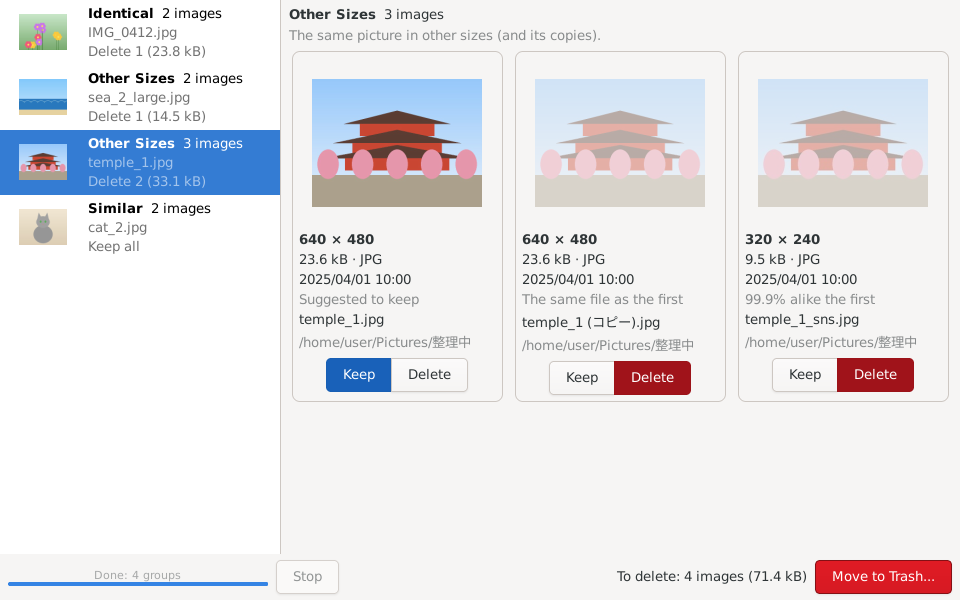
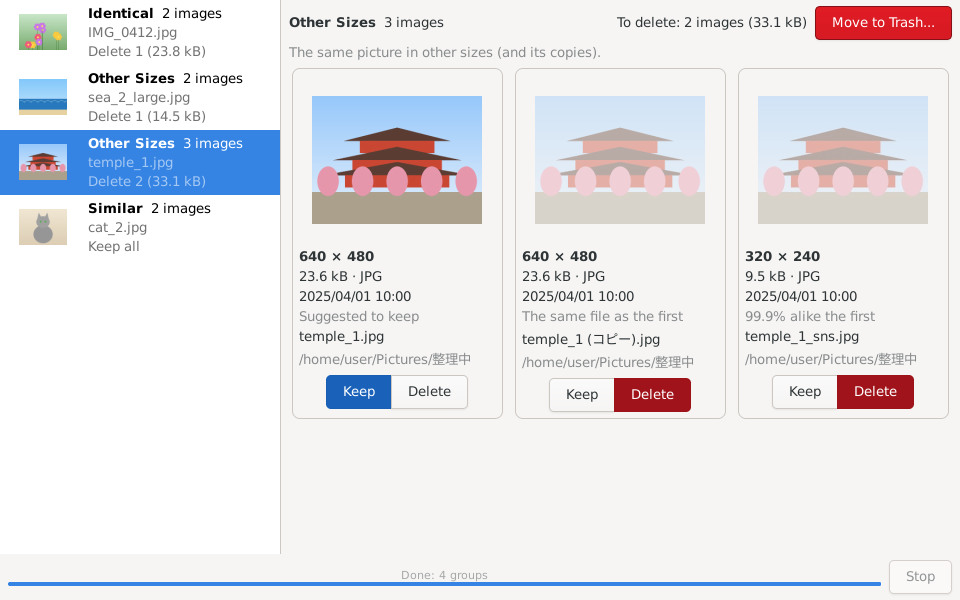
Find Duplicates: move to the trash a group at a time
All the groups to the trash at once is too bold for deleting.  The
"Move to Trash..." button and what is to delete are now at the top of
the group shown, and it moves only the images of that group marked
Delete.  The question names the files (ten, and how many more) and,
when all of the group are to delete, says so with "Cancel" the default.
After the move the next group is shown; the group's row marks a group
all to delete.

diff --git a/doc/en/03.html b/doc/en/03.html
@@ -555,7 +555,7 @@ Looks for the duplicate images among all the images of the active tab (the selec
 On the left are the groups: the kind, the number of images, and how many are to delete (and their size).  The images of the group selected are side by side on the right to compare: the size, the file size, the format, the date taken, how alike the first, the folder, and whether it has a comment.  A click on a picture shows it in the thumbnail window (what it does is set in [Preferences | Search]).
 </p>
 <p class="para">
-Each image is marked "Keep" or "Delete".  In the Identical and Other Sizes groups the one with the most pixels (then the largest file, the oldest) is kept and the others are to delete; in the Similar groups all are kept.  "Move to Trash..." moves the images to delete to the trash after asking (they can be put back from the trash); it says so when all of a group are to delete or some have comments.  The comment files stay.
+Each image is marked "Keep" or "Delete".  In the Identical and Other Sizes groups the one with the most pixels (then the largest file, the oldest) is kept and the others are to delete; in the Similar groups all are kept.  "Move to Trash..." at the top right moves the images to delete of the group shown, and only those, to the trash after asking (they can be put back from the trash): a group at a time, to be careful.  The question names the files and says so when all of the group are to delete (then "Cancel" is the default) or some have comments.  Then the next group is shown.  The comment files stay.
 </p>
 <p class="para">
 The window reads the pictures itself: the images the thumbnail view has not loaded are shown too.  It can be used while it searches: the Identical groups come first, all of them at the end.  The images in archives are not compared.

diff --git a/doc/ja/gimv_history.html b/doc/ja/gimv_history.html
@@ -66,8 +66,8 @@
     o 「EXIFデータを検索」を「EXIFデータを表示」に
     o [ツール | 重複画像を探す] を作り直し: 1 回で「完全に同じ」「大きさ違い」
       「似ている」に分けて探す．左にグループ，右にその画像を並べて比べ，
-      それぞれ「残す」「削除」(同じ・大きさ違いはおすすめ付き)，「ゴミ箱へ
-      移動...」．探すのは別スレッドで，画像も自分で読み込む
+      それぞれ「残す」「削除」(同じ・大きさ違いはおすすめ付き)，表示中の
+      グループだけを「ゴミ箱へ移動...」(1 グループずつ)．探すのは別スレッドで，画像も自分で読み込む
     o データタブに「項目を削除」．下の「削除」は「コメントを削除...」にして
       確認を出し，タグは残す．コメントの保存・削除をすぐ索引に反映
     o スライドショーで 2 枚目以降の画像が描かれなかったのを修正

diff --git a/doc/en/gimv_history.html b/doc/en/gimv_history.html
@@ -67,7 +67,7 @@
       Identical, Other Sizes and Similar; the groups on the left, their
       images side by side on the right to compare, each to keep or to
       delete (suggested for the identical and resized), and "Move to
-      Trash...".  It searches in a thread and reads the pictures itself.
+      Trash..." for the group shown (a group at a time).  It searches in a thread and reads the pictures itself.
     o Data tab: "Remove Item" for the item selected; "Delete Comment..."
       asks first and keeps the tags.  The index follows a comment saved
       or deleted at once.

diff --git a/src/gimv_dupl_win.c b/src/gimv_dupl_win.c
@@ -104,8 +104,9 @@ struct GimvDuplWinPriv_Tag
    GtkWidget     *more_label;  /* the members not shown */
    GtkWidget     *progress;
    GtkWidget     *stop_button;
-   GtkWidget     *summary_label;
-   GtkWidget     *trash_button;
+   GtkWidget     *summary_label;  /* of the group shown */
+   GtkWidget     *trash_button;   /* ... its images to delete */
+   gboolean       trashing;
 
    gint           current;     /* the group shown, -1 */
 };
@@ -413,32 +414,31 @@ static void
 update_summary (GimvDuplWin *sw)
 {
    GimvDuplWinPriv *priv = sw->priv;
-   guint i, n = 0;
+   guint n = 0, n_keep = 0;
    goffset bytes = 0;
    gchar *size, *text;
+   gboolean shown = priv->groups && priv->current >= 0
+                    && priv->current < (gint) priv->groups->len;
 
-   if (priv->groups) {
-      /* a path in two groups (the first groups and all) is counted once */
-      GHashTable *seen = g_hash_table_new (g_str_hash, g_str_equal);
-      for (i = 0; i < priv->groups->len; i++) {
-         GimvDuplGroup *group = g_ptr_array_index (priv->groups, i);
-         guint k;
-         if (n_left (sw, group) < 2) continue;
-         for (k = 0; k < group->members->len; k++) {
-            GimvDuplItem *item = g_ptr_array_index (group->members, k);
-            if (is_removed (sw, item) || !marked_delete (sw, group, k)) continue;
-            if (!g_hash_table_add (seen, item->path)) continue;
-            n++;
-            bytes += item->size;
-         }
-      }
-      g_hash_table_destroy (seen);
-   }
+   /* the group shown only: it is moved to the trash a group at a time */
+   if (shown)
+      group_counts (sw, g_ptr_array_index (priv->groups, priv->current),
+                    &n, &bytes, &n_keep);
 
    size = g_format_size (bytes);
    text = g_strdup_printf (_("To delete: %u images (%s)"), n, size);
    gtk_label_set_text (GTK_LABEL (priv->summary_label), text);
-   gtk_widget_set_sensitive (priv->trash_button, n > 0 && !priv->running);
+   gtk_widget_set_visible (priv->summary_label, shown);
+   gtk_widget_set_visible (priv->trash_button, shown);
+   gtk_widget_set_sensitive (priv->trash_button, n > 0 && !priv->trashing);
+   if (n > 0 && n_keep == 0) {
+      gtk_widget_add_css_class (priv->summary_label, "error");
+      gtk_widget_set_tooltip_text (priv->summary_label,
+                                   _("Every image of this group is marked to delete."));
+   } else {
+      gtk_widget_remove_css_class (priv->summary_label, "error");
+      gtk_widget_set_tooltip_text (priv->summary_label, NULL);
+   }
    g_free (text);
    g_free (size);
 }
@@ -823,6 +823,7 @@ show_group (GimvDuplWin *sw, gint index)
    if (!priv->groups || index < 0 || index >= (gint) priv->groups->len) {
       gtk_label_set_text (GTK_LABEL (priv->head_label), "");
       gtk_label_set_text (GTK_LABEL (priv->kind_label), "");
+      update_summary (sw);
       return;
    }
 
@@ -854,6 +855,7 @@ show_group (GimvDuplWin *sw, gint index)
       }
       gtk_widget_set_visible (priv->more_label, left > shown);
    }
+   update_summary (sw);
 }
 
 
@@ -1115,6 +1117,7 @@ typedef struct {
    GPtrArray *paths;      /* gchar * */
    GPtrArray *done;       /* the paths moved */
    GString   *errors;
+   guint      position;   /* of the group in the list */
 } TrashJob;
 
 
@@ -1164,6 +1167,7 @@ trash_done (GObject *source, GAsyncResult *res, gpointer data)
    guint i;
 
    if (!sw) return;
+   sw->priv->trashing = FALSE;
    for (i = 0; i < job->done->len; i++)
       g_hash_table_add (sw->priv->removed, g_strdup (g_ptr_array_index (job->done, i)));
 
@@ -1174,6 +1178,19 @@ trash_done (GObject *source, GAsyncResult *res, gpointer data)
       g_free (text);
    }
    fill_groups (sw);
+   /* the group done is gone (one left): on to the next, which is now where
+    * it was */
+   {
+      GtkSingleSelection *sel = GTK_SINGLE_SELECTION
+         (gtk_list_view_get_model (GTK_LIST_VIEW (sw->priv->group_view)));
+      guint n = g_list_model_get_n_items (G_LIST_MODEL (sw->priv->group_store));
+      if (n > 0 && gtk_single_selection_get_selected (sel) != MIN (job->position, n - 1)
+          && job->done->len > 0) {
+         gtk_single_selection_set_selected (sel, MIN (job->position, n - 1));
+         gtk_list_view_scroll_to (GTK_LIST_VIEW (sw->priv->group_view),
+                                  MIN (job->position, n - 1), GTK_LIST_SCROLL_FOCUS, NULL);
+      }
+   }
 
    if (sw->tv && job->done->len > 0)
       gimv_thumb_view_refresh_list (sw->tv);
@@ -1187,35 +1204,29 @@ trash_done (GObject *source, GAsyncResult *res, gpointer data)
 }
 
 
-/* the paths to delete, each once */
+/* the paths to delete of the group shown */
 static GPtrArray *
-paths_to_delete (GimvDuplWin *sw, guint *all_groups, guint *with_comment, goffset *bytes)
+paths_to_delete (GimvDuplWin *sw, gboolean *all, guint *with_comment, goffset *bytes)
 {
    GimvDuplWinPriv *priv = sw->priv;
    GPtrArray *paths = g_ptr_array_new_with_free_func (g_free);
-   GHashTable *seen = g_hash_table_new (g_str_hash, g_str_equal);
-   guint i;
+   GimvDuplGroup *group;
+   guint k, n_del, n_keep;
 
-   *all_groups = *with_comment = 0;
+   *all = FALSE;
+   *with_comment = 0;
    *bytes = 0;
-   for (i = 0; priv->groups && i < priv->groups->len; i++) {
-      GimvDuplGroup *group = g_ptr_array_index (priv->groups, i);
-      guint k, n_del, n_keep;
-      goffset b;
-
-      if (n_left (sw, group) < 2) continue;
-      group_counts (sw, group, &n_del, &b, &n_keep);
-      if (n_del > 0 && n_keep == 0) (*all_groups)++;
-      for (k = 0; k < group->members->len; k++) {
-         GimvDuplItem *item = g_ptr_array_index (group->members, k);
-         if (is_removed (sw, item) || !marked_delete (sw, group, k)) continue;
-         if (!g_hash_table_add (seen, item->path)) continue;
-         g_ptr_array_add (paths, g_strdup (item->path));
-         *bytes += item->size;
-         if (has_comment (item->path)) (*with_comment)++;
-      }
+   if (!priv->groups || priv->current < 0 || priv->current >= (gint) priv->groups->len)
+      return paths;
+   group = g_ptr_array_index (priv->groups, priv->current);
+   group_counts (sw, group, &n_del, bytes, &n_keep);
+   *all = n_del > 0 && n_keep == 0;
+   for (k = 0; k < group->members->len; k++) {
+      GimvDuplItem *item = g_ptr_array_index (group->members, k);
+      if (is_removed (sw, item) || !marked_delete (sw, group, k)) continue;
+      g_ptr_array_add (paths, g_strdup (item->path));
+      if (has_comment (item->path)) (*with_comment)++;
    }
-   g_hash_table_destroy (seen);
    return paths;
 }
 
@@ -1226,7 +1237,8 @@ cb_trash_answer (GObject *source, GAsyncResult *res, gpointer data)
    Shared *shared = data;
    gint button = gtk_alert_dialog_choose_finish (GTK_ALERT_DIALOG (source), res, NULL);
    GimvDuplWin *sw = shared->sw;
-   guint all_groups, with_comment;
+   gboolean all;
+   guint with_comment;
    goffset bytes;
    TrashJob *job;
    GTask *task;
@@ -1235,7 +1247,10 @@ cb_trash_answer (GObject *source, GAsyncResult *res, gpointer data)
 
    job = g_new0 (TrashJob, 1);
    job->shared = shared;   /* the reference passes on */
-   job->paths = paths_to_delete (sw, &all_groups, &with_comment, &bytes);
+   job->paths = paths_to_delete (sw, &all, &with_comment, &bytes);
+   job->position = gtk_single_selection_get_selected
+      (GTK_SINGLE_SELECTION (gtk_list_view_get_model (GTK_LIST_VIEW (sw->priv->group_view))));
+   sw->priv->trashing = TRUE;
    job->done = g_ptr_array_new_with_free_func (g_free);
    job->errors = g_string_new (NULL);
 
@@ -1252,9 +1267,10 @@ cb_trash_answer (GObject *source, GAsyncResult *res, gpointer data)
 static void
 cb_trash (GtkButton *button, GimvDuplWin *sw)
 {
-   guint all_groups, with_comment;
+   gboolean all;
+   guint with_comment;
    goffset bytes;
-   GPtrArray *paths = paths_to_delete (sw, &all_groups, &with_comment, &bytes);
+   GPtrArray *paths = paths_to_delete (sw, &all, &with_comment, &bytes);
    GtkAlertDialog *dialog;
    GString *detail = g_string_new (NULL);
    gchar *size;
@@ -1263,12 +1279,25 @@ cb_trash (GtkButton *button, GimvDuplWin *sw)
    if (paths->len == 0) { g_ptr_array_unref (paths); g_string_free (detail, TRUE); return; }
 
    size = g_format_size (bytes);
-   dialog = gtk_alert_dialog_new (_("Move %u images (%s) to the trash?"), paths->len, size);
+   dialog = gtk_alert_dialog_new (_("Move %u images (%s) of this group to the trash?"),
+                                  paths->len, size);
    g_free (size);
-   if (all_groups > 0) {
-      g_string_append_printf (detail,
-                              _("In %u groups every image is marked to delete."),
-                              all_groups);
+   /* the names, the ones not shown too (a group of many) */
+   {
+      guint k;
+      for (k = 0; k < paths->len && k < 10; k++) {
+         gchar *name = g_filename_display_basename (g_ptr_array_index (paths, k));
+         g_string_append_printf (detail, "%s\n", name);
+         g_free (name);
+      }
+      if (paths->len > 10) {
+         g_string_append_printf (detail, _("and %u more"), paths->len - 10);
+         g_string_append (detail, "\n");
+      }
+      g_string_append (detail, "\n");
+   }
+   if (all) {
+      g_string_append (detail, _("Every image of this group is marked to delete."));
       g_string_append (detail, "\n");
    }
    if (with_comment > 0) {
@@ -1284,7 +1313,7 @@ cb_trash (GtkButton *button, GimvDuplWin *sw)
    buttons[2] = NULL;
    gtk_alert_dialog_set_buttons (dialog, buttons);
    gtk_alert_dialog_set_cancel_button (dialog, 0);
-   gtk_alert_dialog_set_default_button (dialog, all_groups > 0 ? 0 : 1);
+   gtk_alert_dialog_set_default_button (dialog, all ? 0 : 1);
    gtk_alert_dialog_choose (dialog, GTK_WINDOW (sw), NULL, cb_trash_answer,
                             shared_ref (sw->priv->shared));
    g_object_unref (dialog);
@@ -1411,9 +1440,25 @@ gimv_dupl_win_init (GimvDuplWin *sw)
    gtk_widget_set_margin_start (right, 8);
    gtk_widget_set_margin_end (right, 8);
    gtk_widget_set_margin_top (right, 6);
-   priv->head_label = gtk_label_new (NULL);
-   gtk_label_set_xalign (GTK_LABEL (priv->head_label), 0.0);
-   gtk_box_append (GTK_BOX (right), priv->head_label);
+   /* the group: its kind and number, what is to delete, to the trash */
+   {
+      GtkWidget *head = gtk_box_new (GTK_ORIENTATION_HORIZONTAL, 8);
+      priv->head_label = gtk_label_new (NULL);
+      gtk_label_set_xalign (GTK_LABEL (priv->head_label), 0.0);
+      gtk_widget_set_hexpand (priv->head_label, TRUE);
+      gtk_box_append (GTK_BOX (head), priv->head_label);
+
+      priv->summary_label = gtk_label_new (NULL);
+      gtk_box_append (GTK_BOX (head), priv->summary_label);
+
+      priv->trash_button = gtk_button_new_with_mnemonic (_("Move to _Trash..."));
+      gtk_widget_set_tooltip_text (priv->trash_button,
+                                   _("Moves the images of this group marked Delete to the trash"));
+      gtk_widget_add_css_class (priv->trash_button, "destructive-action");
+      g_signal_connect (priv->trash_button, "clicked", G_CALLBACK (cb_trash), sw);
+      gtk_box_append (GTK_BOX (head), priv->trash_button);
+      gtk_box_append (GTK_BOX (right), head);
+   }
    priv->kind_label = gtk_label_new (NULL);
    gtk_label_set_xalign (GTK_LABEL (priv->kind_label), 0.0);
    gtk_label_set_wrap (GTK_LABEL (priv->kind_label), TRUE);
@@ -1459,23 +1504,13 @@ gimv_dupl_win_init (GimvDuplWin *sw)
    gtk_progress_bar_set_show_text (GTK_PROGRESS_BAR (priv->progress), TRUE);
    gtk_progress_bar_set_ellipsize (GTK_PROGRESS_BAR (priv->progress), PANGO_ELLIPSIZE_END);
    gtk_widget_set_valign (priv->progress, GTK_ALIGN_CENTER);
-   gtk_widget_set_size_request (priv->progress, 260, -1);
+   gtk_widget_set_hexpand (priv->progress, TRUE);
    gtk_box_append (GTK_BOX (hbox), priv->progress);
 
    priv->stop_button = gtk_button_new_with_mnemonic (_("_Stop"));
    gtk_widget_set_sensitive (priv->stop_button, FALSE);
    g_signal_connect (priv->stop_button, "clicked", G_CALLBACK (cb_stop), sw);
    gtk_box_append (GTK_BOX (hbox), priv->stop_button);
-
-   priv->summary_label = gtk_label_new (NULL);
-   gtk_label_set_xalign (GTK_LABEL (priv->summary_label), 1.0);
-   gtk_widget_set_hexpand (priv->summary_label, TRUE);
-   gtk_box_append (GTK_BOX (hbox), priv->summary_label);
-
-   priv->trash_button = gtk_button_new_with_mnemonic (_("Move to _Trash..."));
-   gtk_widget_add_css_class (priv->trash_button, "destructive-action");
-   g_signal_connect (priv->trash_button, "clicked", G_CALLBACK (cb_trash), sw);
-   gtk_box_append (GTK_BOX (hbox), priv->trash_button);
 
    update_summary (sw);
 }
